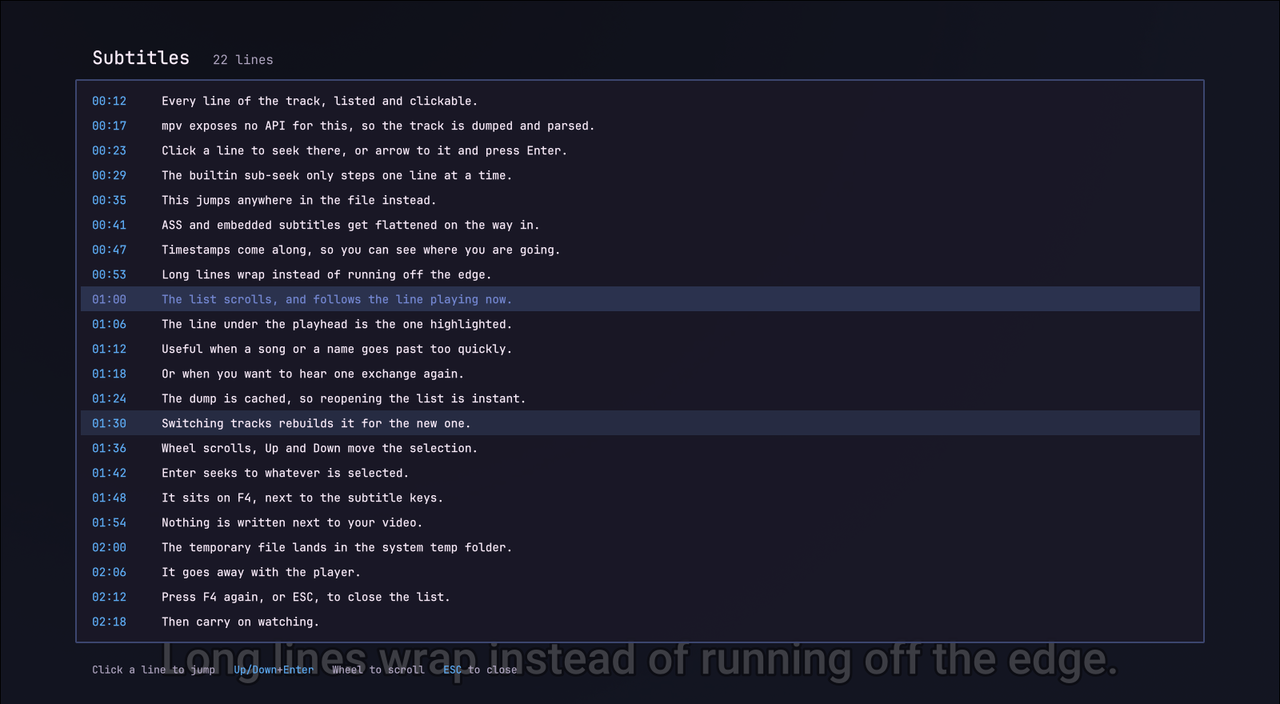
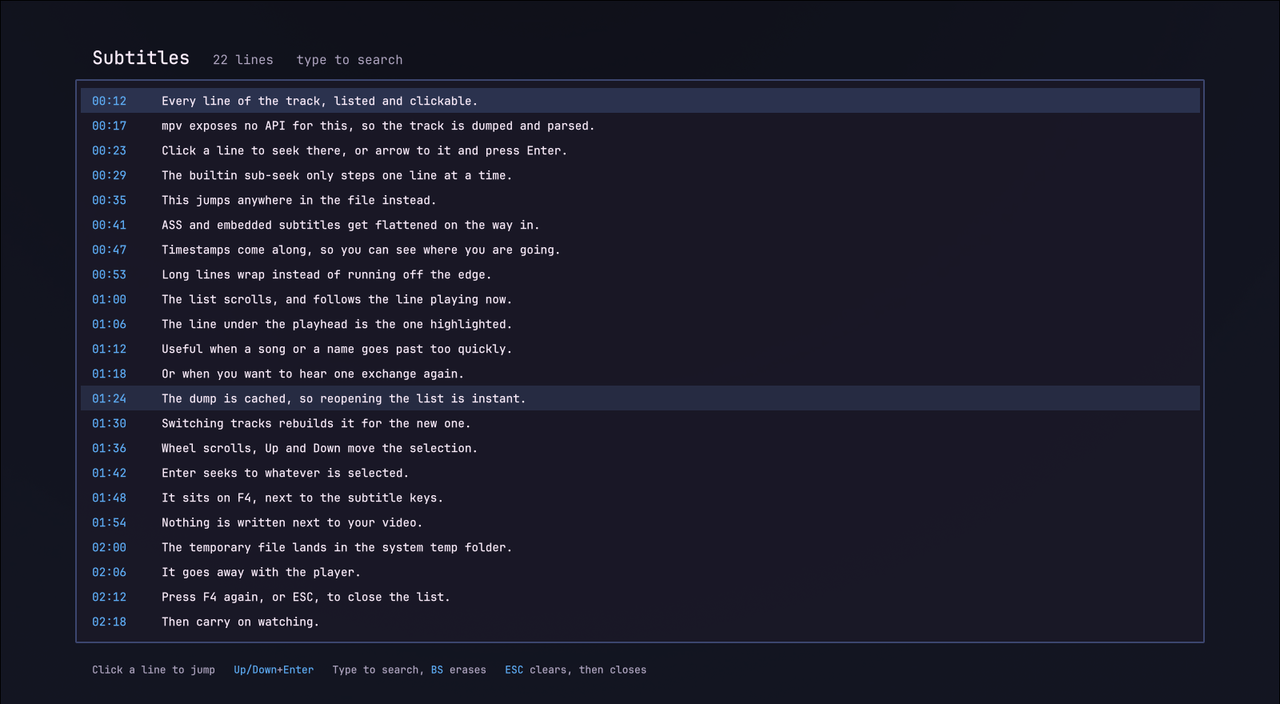
docs: reorder the readme, and host every image in the repo
It opened with how the config is built and closed with what it looks
like. The theme comes first now, then how to install it, then the
scripts, so the screenshots land before the explanations.

Images moved into tables, one row each, the description as the header,
so every shot is captioned rather than floating in a centred block. All
of them are local: the two input.conf screenshots were dead links to
GitHub attachments, and are replaced by cards rendered from the file
itself, so they cannot drift from what it actually says.

Every URL is a reference at the foot of the page, and the two lookup
tables that nobody reads top to bottom, the menu syntax and the list of
third party scripts, fold into details blocks.

diff --git a/README.md b/README.md
@@ -2,14 +2,45 @@
 
 My mpv setup: player settings, a keybind map I keep expanding, a [uosc][UOSC] theme, and the script selection I actually use.
 
-<p align="center">
-  <img alt="mpv" src="https://github.com/user-attachments/assets/8a902a84-a526-49f9-b456-066a2b727981" width="49%"/>
-  &nbsp;&nbsp;
-  <img alt="The menu open three levels deep, shaders ticked" src="assets/uosc-menu-cascade.png" width="49%"/>
-</p>
+| Playing, with the interface showing |
+| ----------------------------------- |
+| ![mpv playing][shot_playing]        |
 
-> [!NOTE]
-> Two things are deliberately missing: the **shaders**, too large to commit, and the **[uosc][UOSC] folder**, which I take from upstream. uosc carries one local change, kept as a patch in [`patches/`](./patches) rather than as a fork.
+> [!IMPORTANT]
+> Two things are deliberately missing: the **shaders**, too large to commit, and the **[uosc][UOSC] folder**, taken from upstream. uosc carries one local change, kept in [`patches/`][patches_dir] rather than as a fork: run `just patch` after installing or updating it, or the menu reverts to stock.
+
+## The uosc theme
+
+Moonlight: dark, low-contrast, the interface kept thin, set in [`uosc.conf`][uosc_conf].
+
+| Role              | Hex       | Used for                       |
+| ----------------- | --------- | ------------------------------ |
+| `foreground`      | `#ced9ff` | Timeline fill, active controls |
+| `foreground_text` | `#0d0e17` | Text on top of that fill       |
+| `background`      | `#191726` | Menus, tooltips, bars          |
+| `background_text` | `#f8eaf8` | Text on those surfaces         |
+| `curtain`         | `#0d0e17` | Dim behind open menus          |
+| `success`         | `#49ef95` | Positive feedback              |
+| `error`           | `#ca5f71` | Failures                       |
+
+Shape matters as much: `timeline_style=bar` at 20px, `top_bar=no-border`, `border_radius=6`, `font_scale=1.18`, `font_bold=yes`. Most surfaces sit under full opacity; the title is transparent, so nothing floats over the video. Menus run at `submenu=1` opacity, so every open level reads as one surface rather than fading into the background.
+
+| At rest: the minimized timeline alone | Woken: top bar, controls, timeline |
+| ------------------------------------- | ---------------------------------- |
+| ![Minimized timeline][shot_minimal]   | ![Full interface][shot_interface]  |
+
+`TAB` toggles the interface as a whole, `SHIFT+TAB` toggles that last bar. The timeline colours the ranges it recognises, so the OP, the ED and the preview read as bands rather than as chapter ticks: `chapter_ranges` sets those colours, with `chapter_range_patterns` teaching it the shorthand titles releases actually use.
+
+### The menu patch
+
+uosc centres whichever menu level is current and slides the whole stack to get there, so walking a path moves everything under the pointer. [`patches/uosc-cascade-menu.patch`][uosc_patch] makes it behave like a native context menu instead:
+
+- the root opens where you clicked, and each submenu lines up with the item that opens it
+- levels are placed by depth, so opening or leaving one never moves the others
+- resting on an item walks in, resting on a parent column walks back out, no click needed; a pointer still travelling is ignored, so passing over an item never opens it
+- the hovered entry's description and command are drawn under the menu, on top of every level
+
+The folder is gitignored and uosc's updater overwrites it, so the change lives as a patch rather than as edits in the tree. [`patches/apply.py`][apply_py] applies it with the standard library alone.
 
 ## Install
 
@@ -27,17 +58,17 @@ portable_config/
     script-opts/
         uosc.conf ## the theme
     scripts/
-        uosc/ ## add from upstream, then run patches/apply.sh
+        uosc/ ## add from upstream, then: just patch
     shaders/ ## add your own
 ```
 
 ## Scripts I wrote
 
-Four of them, all on the Moonlight palette below.
+Five of them, all on the Moonlight palette.
 
-<p align="center">
-  <img alt="keybind-visualizer and sub-seek" src="assets/keybind-visualizer-and-sub-seek.gif" width="100%"/>
-</p>
+| The keyboard map and the subtitle index, in motion |
+| -------------------------------------------------- |
+| ![Keyboard map and subtitle index][shot_map_gif]   |
 
 ### [`keybind-visualizer.lua`][keybind_visualizer]
 
@@ -45,11 +76,11 @@ An on-screen keyboard on `F6`. Hover a key to see what it does; `ESC` closes it.
 
 Bindings are read live from `input-bindings`, so it reflects your `input.conf` plus the builtins, with no list to maintain.
 
-<p align="center">
-  <img alt="The keyboard map filtered by a search for sub" src="assets/keybind-visualizer-search.png" width="100%"/>
-</p>
+| Searching every binding for `sub`           |
+| ------------------------------------------- |
+| ![Keyboard map, searching][shot_map_search] |
 
-Just type to search them. The query matches key names, combos, descriptions and commands. Each typed word matches as a substring, as a gapped run inside a single word (`sbdly` finds `sub-delay`) or as word initials, so a scatter of letters never lights up half the keyboard. It lights every matching key in light gray, ranking the hits in the panel and picking out the typed characters inside each description. `BS` erases, `ESC` clears the query and then closes.
+Just type to search them. The query matches key names, combos, descriptions and commands. Each typed word matches as a substring, as a gapped run inside a single word (`sbdly` finds `sub-delay`) or as word initials, so a scatter of letters never lights up half the keyboard. Typed characters are picked out inside each description. `BS` erases, `ESC` clears the query and then closes.
 
 A `≡` badge marks anything that also lives in the uosc menu: in the corner of the key, and beside the binding's own line in the panel. Those entries describe themselves, so the panel shows the description rather than the raw command.
 
@@ -62,82 +93,58 @@ mpv cannot detect the OS keyboard layout, so layouts live in a JSON file. Pick `
 
 ### [`sub-seek.lua`][sub_seek]
 
-A fullscreen, clickable index of every subtitle line with timestamps, on `F4`. Click a line, or arrow to it and press Enter, to seek there. Like the builtin sub-seek, except you jump anywhere instead of stepping.
+A fullscreen, clickable index of every subtitle line with timestamps, on `F4`. Click a line, or arrow to it and press Enter. Unlike the builtin sub-seek, you jump anywhere instead of stepping.
+
+Type to filter it down: every word typed has to appear in the line, so `long line` keeps only those carrying both, and the hits are picked out where they sit. `BS` erases, `ESC` clears the query and then closes.
 
 mpv exposes no "all subtitle lines" API, so the track is dumped to a temporary `.srt` with ffmpeg and parsed; ASS and embedded subs get flattened on the way.
 
-<p align="center">
-  <img alt="The subtitle index, the line playing now highlighted" src="assets/sub-seek.png" width="100%"/>
-</p>
+| Every line of the track, the one playing highlighted | Filtered down to the lines that match |
+| --- | --- |
+| ![Subtitle index][shot_sub_seek] | ![Subtitle index, searching][shot_sub_search] |
 
 ### [`uosc-menu.lua`][uosc_menu]
 
 uosc builds its menu from the `#!` comments in `input.conf`, but its items get no icon and say nothing about themselves. This reads the same comments, understands two more tokens, and hands uosc the finished menu through its public `open-menu` message, so no uosc file is touched.
 
-<p align="center">
-  <img alt="The menu root, every entry with its icon and key" src="assets/uosc-menu-root.png" width="49%"/>
-  &nbsp;&nbsp;
-  <img alt="Tools submenu, the hovered entry explained above the cascade" src="assets/uosc-menu-tools.png" width="49%"/>
-</p>
-<p align="center">
-  <img alt="Subtitle font list as a radio group" src="assets/uosc-menu-radio.png" width="49%"/>
-  &nbsp;&nbsp;
-  <img alt="Shaders three levels deep, several ticked" src="assets/uosc-menu-cascade.png" width="49%"/>
-</p>
+| Every entry with its icon and key | The hovered entry explained under the cascade |
+| --------------------------------- | --------------------------------------------- |
+| ![Menu root][shot_menu_root]      | ![Tools submenu][shot_menu_tools]             |
+
+| Fonts as a radio group               | Shaders ticked three levels in          |
+| ------------------------------------ | --------------------------------------- |
+| ![Font radio group][shot_menu_radio] | ![Shader checkboxes][shot_menu_cascade] |
+
+<details>
+
+<summary>The syntax, for when you edit the tree</summary>
 
 ```conf
 g cycle interpolation   #! Video @movie > Interpolation @animation ?Resamples frames to the display rate
 #                       #! Video > ---
 ```
 
-| Token   | Does                                                                                      |
-| ------- | ----------------------------------------------------------------------------------------- |
-| `@name` | A [Material Icons Rounded][icons] ligature, on any part of the path                       |
-| `?text` | What the entry does, shown under the menu on hover, next to the command it runs            |
-| `---`   | A separator under the last entry of the level it sits in, so `Video > ---`, one level up   |
+| Token   | Does                                                                                     |
+| ------- | ---------------------------------------------------------------------------------------- |
+| `@name` | A [Material Icons Rounded][icons] ligature, on any part of the path                      |
+| `?text` | What the entry does, shown under the menu on hover, next to the command it runs          |
+| `---`   | A separator under the last entry of the level it sits in, so `Video > ---`, one level up |
 
-Entries that carry a state draw it instead of their icon, read from mpv each time the menu opens: `cycle <prop>`, `af toggle` and `change-list glsl-shaders toggle` become checkboxes, while entries setting the same property with `set <prop> <value>` become a radio group. Those keep the menu open when clicked and redraw in place, so a shader chain can be built in one visit.
+</details>
+
+Entries that carry a state draw it instead of their icon, re-read on open: `cycle <prop>`, `af toggle` and `change-list glsl-shaders toggle` become checkboxes, while entries setting the same property with `set <prop> <value>` become a radio group. Those keep the menu open when clicked and redraw in place, so a shader chain can be built in one visit.
 
 Bound to `MBTN_RIGHT`, which anchors it at the pointer, and to `MENU` and the uosc menu button, which open it centred.
+
+### [`sub-font.lua`][sub_font]
+
+One font choice, whatever the subtitle file turns out to be. Plain text subtitles carry no styling, so mpv draws them with `sub-font`; ASS scripts carry their own styles and only listen to `sub-ass-style-overrides`, which does nothing for plain text.
+
+This mirrors `sub-font` into a `FontName` override, leaving other overrides alone, so `F8` and `Subtitle > Font` land on both. `script-message-to sub_font use-file-font` drops the override again, for when an ASS script should use the typeface it names. ASS styling only gives way when `sub-ass-override` is `yes` or higher, which is what `u` toggles.
 
 ### [`reset-all.lua`][reset_all]
 
 `ALT+F5` puts playback back to a fresh-start state without reloading the file: zoom, pan, aspect, rotation, panscan, speed, both delays, subtitle scale, position and visibility, and the colour controls, then clears `glsl-shaders`. Volume and mute are left alone, so a reset never blasts audio.
-
-## The uosc theme
-
-Moonlight: dark, low-contrast, chrome kept thin. Set in [`uosc.conf`][uosc_conf].
-
-| Role              | Hex       | Used for                       |
-| ----------------- | --------- | ------------------------------ |
-| `foreground`      | `#ced9ff` | Timeline fill, active controls |
-| `foreground_text` | `#0d0e17` | Text on top of that fill       |
-| `background`      | `#191726` | Menus, tooltips, bars          |
-| `background_text` | `#f8eaf8` | Text on those surfaces         |
-| `curtain`         | `#0d0e17` | Dim behind open menus          |
-| `success`         | `#49ef95` | Positive feedback              |
-| `error`           | `#ca5f71` | Failures                       |
-
-Shape matters as much: `timeline_style=bar` at 20px, `top_bar=no-border`, `border_radius=6`, `font_scale=1.18`, `font_bold=yes`. Most surfaces sit under full opacity; the title is transparent, so nothing floats over the video. Menus run at `submenu=1` opacity, so every open level reads as one surface rather than fading into the background.
-
-<p align="center">
-  <img alt="Playback with nothing but the minimized timeline" src="assets/uosc-minimal.png" width="49%"/>
-  &nbsp;&nbsp;
-  <img alt="The chrome brought up: top bar, controls and timeline" src="assets/uosc-chrome.png" width="49%"/>
-</p>
-
-At rest only the minimized timeline shows; `TAB` toggles the interface as a whole, `SHIFT+TAB` toggles that last bar. The timeline colours the ranges it recognises, so the OP, the ED and the preview read as bands rather than as chapter ticks: `chapter_ranges` above, with `chapter_range_patterns` teaching it the shorthand titles releases actually use.
-
-### The menu patch
-
-uosc centres whichever menu level is current and slides the whole stack to get there, so walking a path moves everything under the pointer. [`patches/uosc-cascade-menu.patch`][uosc_patch] makes it behave like a native context menu instead:
-
-- the root opens where you clicked, and each submenu lines up with the item that opens it
-- levels are placed by depth, so opening or leaving one never moves the others
-- resting on an item walks in, resting on a parent column walks back out, no click needed; a pointer still travelling is ignored, so passing over an item never opens it
-- the hovered entry's description and command are drawn under the menu, on top of every level
-
-The uosc folder is gitignored and its own updater overwrites it, so the patch is kept as a file rather than as edits in the tree. Run `bash patches/apply.sh` after every uosc update; it skips patches already in place.
 
 ## Configuration
 
@@ -148,12 +155,11 @@ The uosc folder is gitignored and its own updater overwrites it, so the patch is
 | [`profiles.conf`][profile_conf] | Conditional profiles                                                                           |
 | [`fonts.conf`][fonts_conf]      | Legacy; loaded Windows fonts before `fonts/` replaced it                                       |
 
-<p align="center">
-  <img alt="input_conf_1" src="https://github.com/user-attachments/assets/48b1bea8-c424-41ef-915d-a61575affdac" width="49%"/>
-  <img alt="input_conf_2" src="https://github.com/user-attachments/assets/d426835c-f2d8-450a-8a78-7580ca77bc85" width="49%"/>
-</p>
+| Bindings grouped by keyboard row             | The menu, written on the same lines       |
+| -------------------------------------------- | ----------------------------------------- |
+| ![input.conf, function rows][shot_conf_keys] | ![input.conf, menu block][shot_conf_menu] |
 
-`input.conf` is the piece I put the most into: every binding mpv accepts written out as a comment, grouped by keyboard row, with mine active among them, then the shader keys and the uosc menu. Of all the ones I read for inspiration, none were this complete.
+`input.conf` is the piece I put the most into: mine active among the commented ones, then the shader keys and the uosc menu. Of all the configs I read for inspiration, none were this complete.
 
 `profiles.conf` swaps the shader chain and subtitle styling when the path contains `Animation`, plus profiles for audio-only files and upscaling.
 
@@ -179,6 +185,10 @@ flowchart TB
   opens --> plays --> ends
 ```
 
+<details>
+
+<summary>The thirteen scripts I did not write</summary>
+
 | Script                                   | Source                            | What it does                                            |
 | ---------------------------------------- | --------------------------------- | ------------------------------------------------------- |
 | [`anilistUpdater`][anilist]              | [AzuredBlue][anilist_src]         | Marks the episode watched on AniList at 85%             |
@@ -195,6 +205,8 @@ flowchart TB
 | [`thumbfast.lua`][thumbfast]             | [po5][thumbfast_src]              | Seekbar hover thumbnails                                |
 | [`watched-folder.lua`][watched_folder]   | mine                              | Moves a finished file to a "watched" folder             |
 
+</details>
+
 Several carry local patches, `thumbfast.lua` most of all.
 
 `watched-folder.lua` has two known bugs: it fires when you switch files without finishing, and it skips the last file in a playlist.
@@ -209,10 +221,24 @@ Tried and dropped, kept for reference: `autodeint.lua`, `better-chapter.lua`, `i
 
 ## Shaders and fonts
 
-Shaders, [Anime4K][Anime4k] among them, are too large to commit; [`shaders_list.txt`][shaders_list] names them all. Fonts sit in `fonts/` because the Windows font folder loads slower.
+Shaders, [Anime4K][Anime4k] among them, are too large to commit; [`shaders_list.txt`][shaders_list] names them. Fonts sit in `fonts/`, which loads faster than the Windows font folder.
 
 <!-- URLS -->
 
+[shot_playing]: assets/mpv-playing.png
+[shot_map_gif]: assets/keybind-visualizer-and-sub-seek.gif
+[shot_map_search]: assets/keybind-visualizer-search.png
+[shot_sub_seek]: assets/sub-seek.png
+[shot_sub_search]: assets/sub-seek-search.png
+[shot_menu_root]: assets/uosc-menu-root.png
+[shot_menu_tools]: assets/uosc-menu-tools.png
+[shot_menu_radio]: assets/uosc-menu-radio.png
+[shot_menu_cascade]: assets/uosc-menu-cascade.png
+[shot_minimal]: assets/uosc-minimal.png
+[shot_interface]: assets/uosc-chrome.png
+[shot_conf_keys]: assets/input-conf-keys.png
+[shot_conf_menu]: assets/input-conf-menu.png
+[patches_dir]: ./patches
 [keybind_visualizer]: ./portable_config/scripts/keybind-visualizer.lua
 [keybind_visualizer_conf]: ./portable_config/script-opts/keybind-visualizer.conf
 [keybind_visualizer_layouts]: ./portable_config/script-opts/keybind-visualizer-layouts.json
@@ -238,8 +264,10 @@ Shaders, [Anime4K][Anime4k] among them, are too large to commit; [`shaders_list.
 [vf_bypass]: ./portable_config/scripts/reactive_vf_bypass.lua
 [allecsc]: https://github.com/allecsc/mpv-qol-scripts
 [reset_all]: ./portable_config/scripts/reset-all.lua
+[sub_font]: ./portable_config/scripts/sub-font.lua
 [uosc_menu]: ./portable_config/scripts/uosc-menu.lua
 [uosc_patch]: ./patches/uosc-cascade-menu.patch
+[apply_py]: ./patches/apply.py
 [restart_mpv]: ./portable_config/scripts/restart-mpv.lua
 [skip_silence]: ./portable_config/scripts/skip-to-silence.lua
 [detuur]: https://github.com/detuur/mpv-scripts
